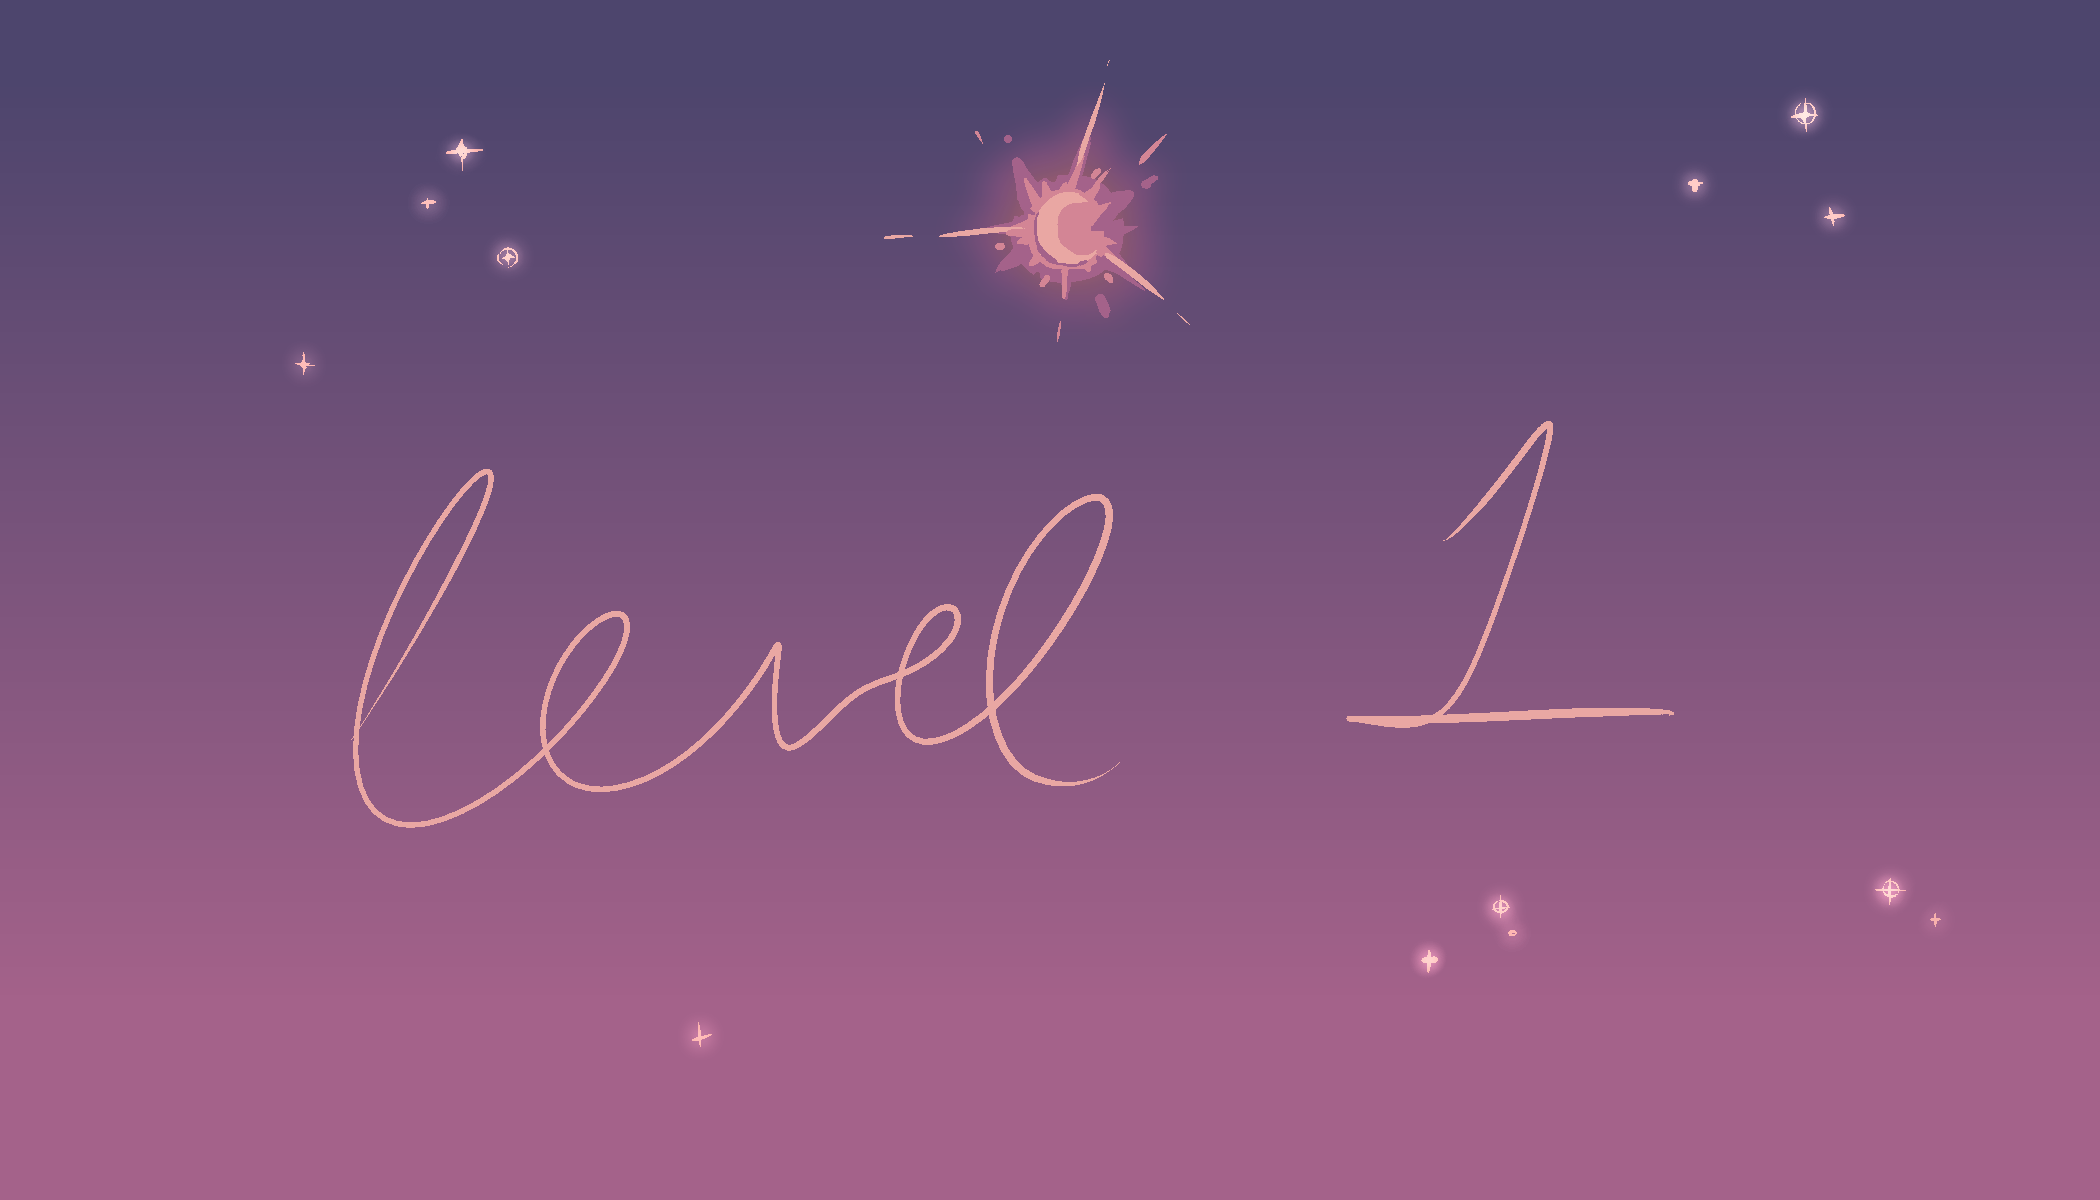
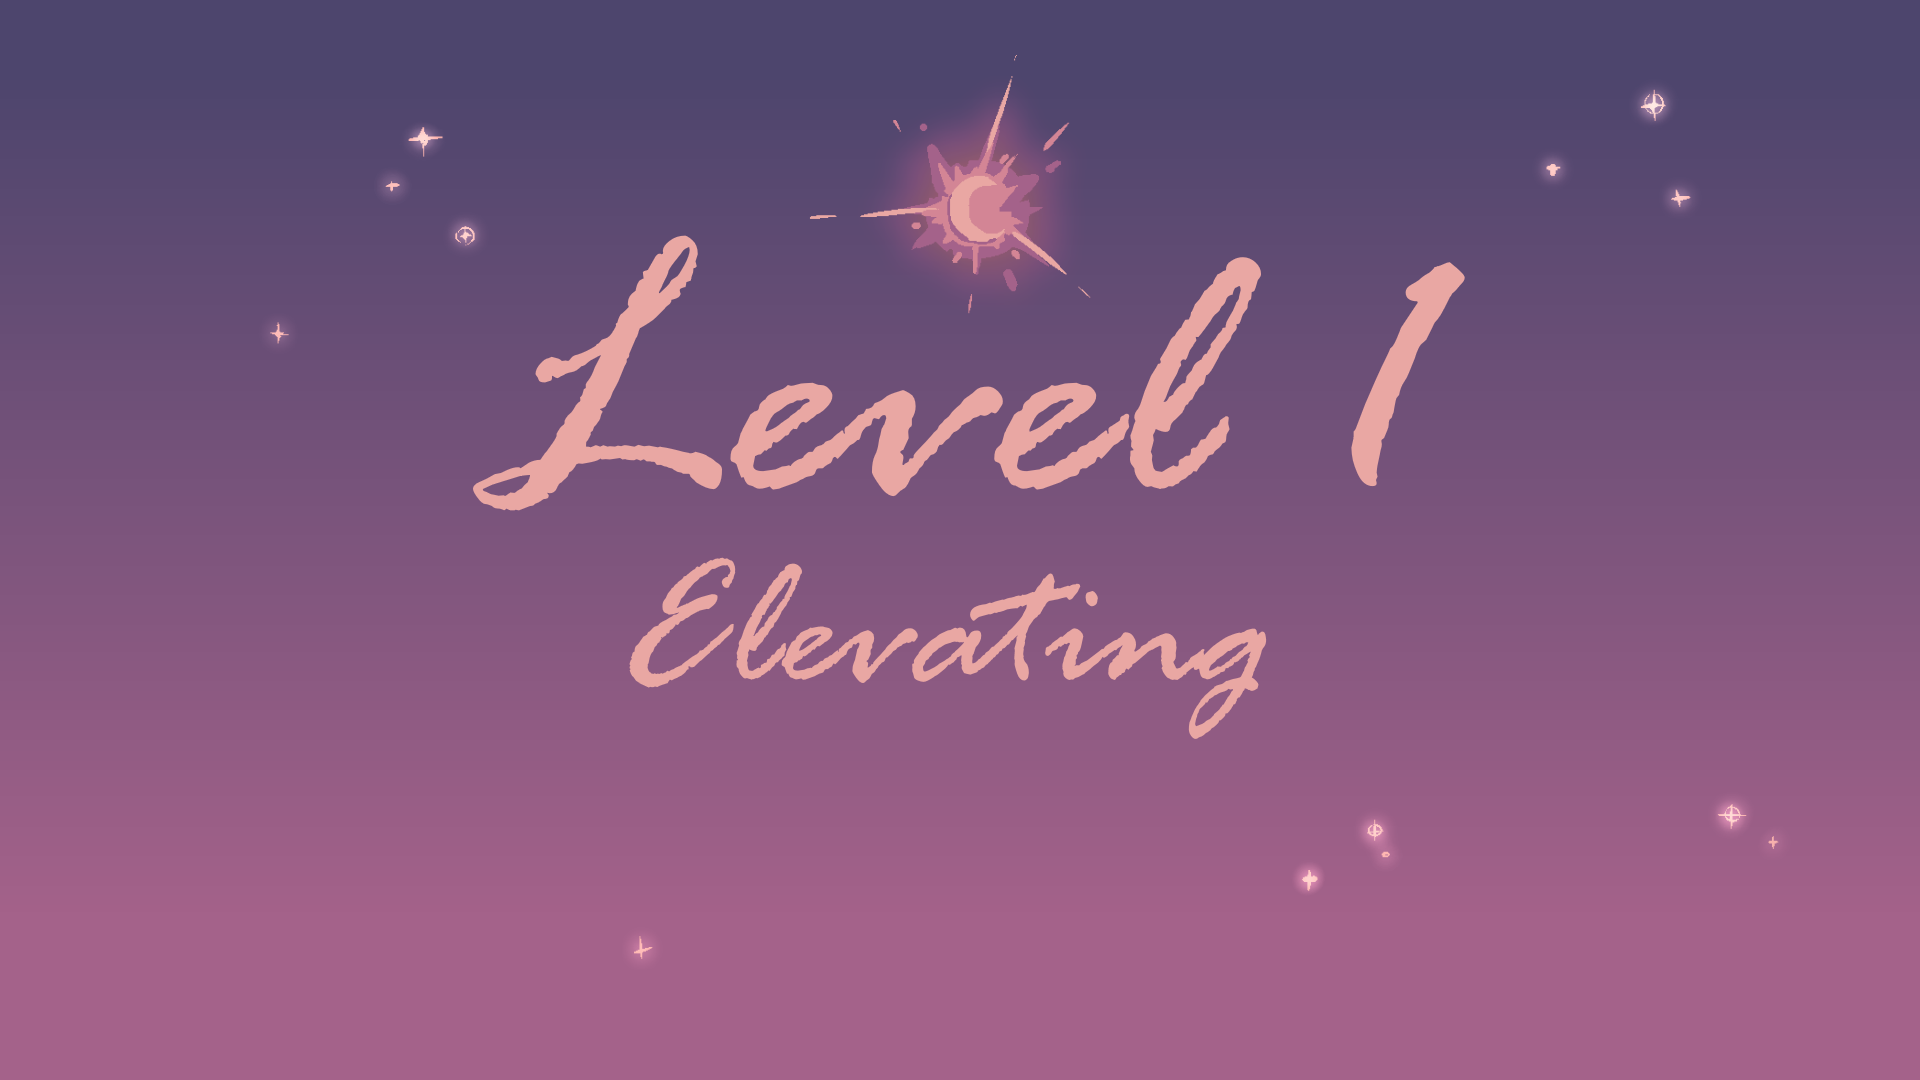
added screen between levels

diff --git a/main.py b/main.py
@@ -13,7 +13,7 @@ screen = pygame.display.set_mode((width, height))
 pygame.display.flip()
 
 
-levelnumber = 4
+levelnumber = 1
 objects = []
 keys = []
 bit_keys = []
@@ -23,6 +23,7 @@ objects+=[player]
 for each in level.boxes:
     objects+=[game_objects.Controllable_Box(each[0],each[1],each[2],each[3], levelnumber)]
 clock = pygame.time.Clock()
+start = False
 
 ROLL = 512
 PITCH = 513
@@ -31,36 +32,51 @@ BIT_B = 515
 
 
 def game_loop():
-    global level, objects, levelWon, levelnumber, dead
+    global level, objects, levelWon, levelnumber, dead, start
     frame = 0
     running = 1
     roll, pitch = 0, 0
+    alpha = 0
     while running:
-        while not (levelWon or dead):
-            keys=pygame.key.get_pressed()
+
+        while not (levelWon or dead):   
+
+            keys=pygame.key.get_pressed()             
 
             bit_keys = ()
             roll, pitch, a, b = microbit.bitman(roll, pitch)
             bit_keys=(roll, pitch, a, b)
 
-            # render
-            pygame.draw.rect(screen, (255, 255, 255), pygame.Rect(0, 0, width, height))
-            level.draw_bg(screen, frame)
-            level.shooting_stars(screen, frame)
-            level.draw_mg(screen)
-            for i in objects:
-                state = i.tick(level, { "keys": keys, "microbit": bit_keys }, objects)
-                if state == 1:
-                    levelWon = True
+            if not start:
+                if alpha < 254: alpha += 1
+                image = level.level_menu
+                screen.fill((0,0,0))    
+                image.set_alpha(alpha)    
+                screen.blit(image, [0,0])
+
+                for event in pygame.event.get():
+                    if event.type == pygame.KEYDOWN:
+                        start = True
+
+            else:
+                # render
+                pygame.draw.rect(screen, (255, 255, 255), pygame.Rect(0, 0, width, height))
+                level.draw_bg(screen, frame)
+                level.shooting_stars(screen, frame)
+                level.draw_mg(screen)
+                for i in objects:
+                    state = i.tick(level, { "keys": keys, "microbit": bit_keys }, objects)
+                    if state == 1:
+                        levelWon = True
+                        continue
+                    elif state == 2:
+                        dead = True
+                        continue
+                if levelWon or dead:
                     continue
-                elif state == 2:
-                    dead = True
-                    continue
-            if levelWon or dead:
-                continue
-            for i in objects:
-                i.render(screen, frame)
-            level.draw_fg(screen)
+                for i in objects:
+                    i.render(screen, frame)
+                level.draw_fg(screen)
             pygame.display.flip()
             for event in pygame.event.get():
                 if event.type == pygame.QUIT:

diff --git a/level.py b/level.py
@@ -9,6 +9,7 @@ dead = False
 class Level:
     def __init__(self, levelnumber):
         self.level_index = levelnumber
+        self.level_menu = pygame.image.load("./assets/startscreens/lvl" + str(self.level_index) + "n.png").convert_alpha()
         self.loader = Level_Loader(self.level_index)
         self.blocks = self.loader.load_level(self.level_index)
         self.bounding_boxes = self.loader.load_bounding_box(self.level_index)

diff --git a/microbit.py b/microbit.py
@@ -2,7 +2,7 @@ import serial
 
 s_inst = serial.Serial()
 s_inst.baudrate = 115200
-s_inst.port ='COM6'
+s_inst.port ='COM3'
 s_inst.open()
 
 
